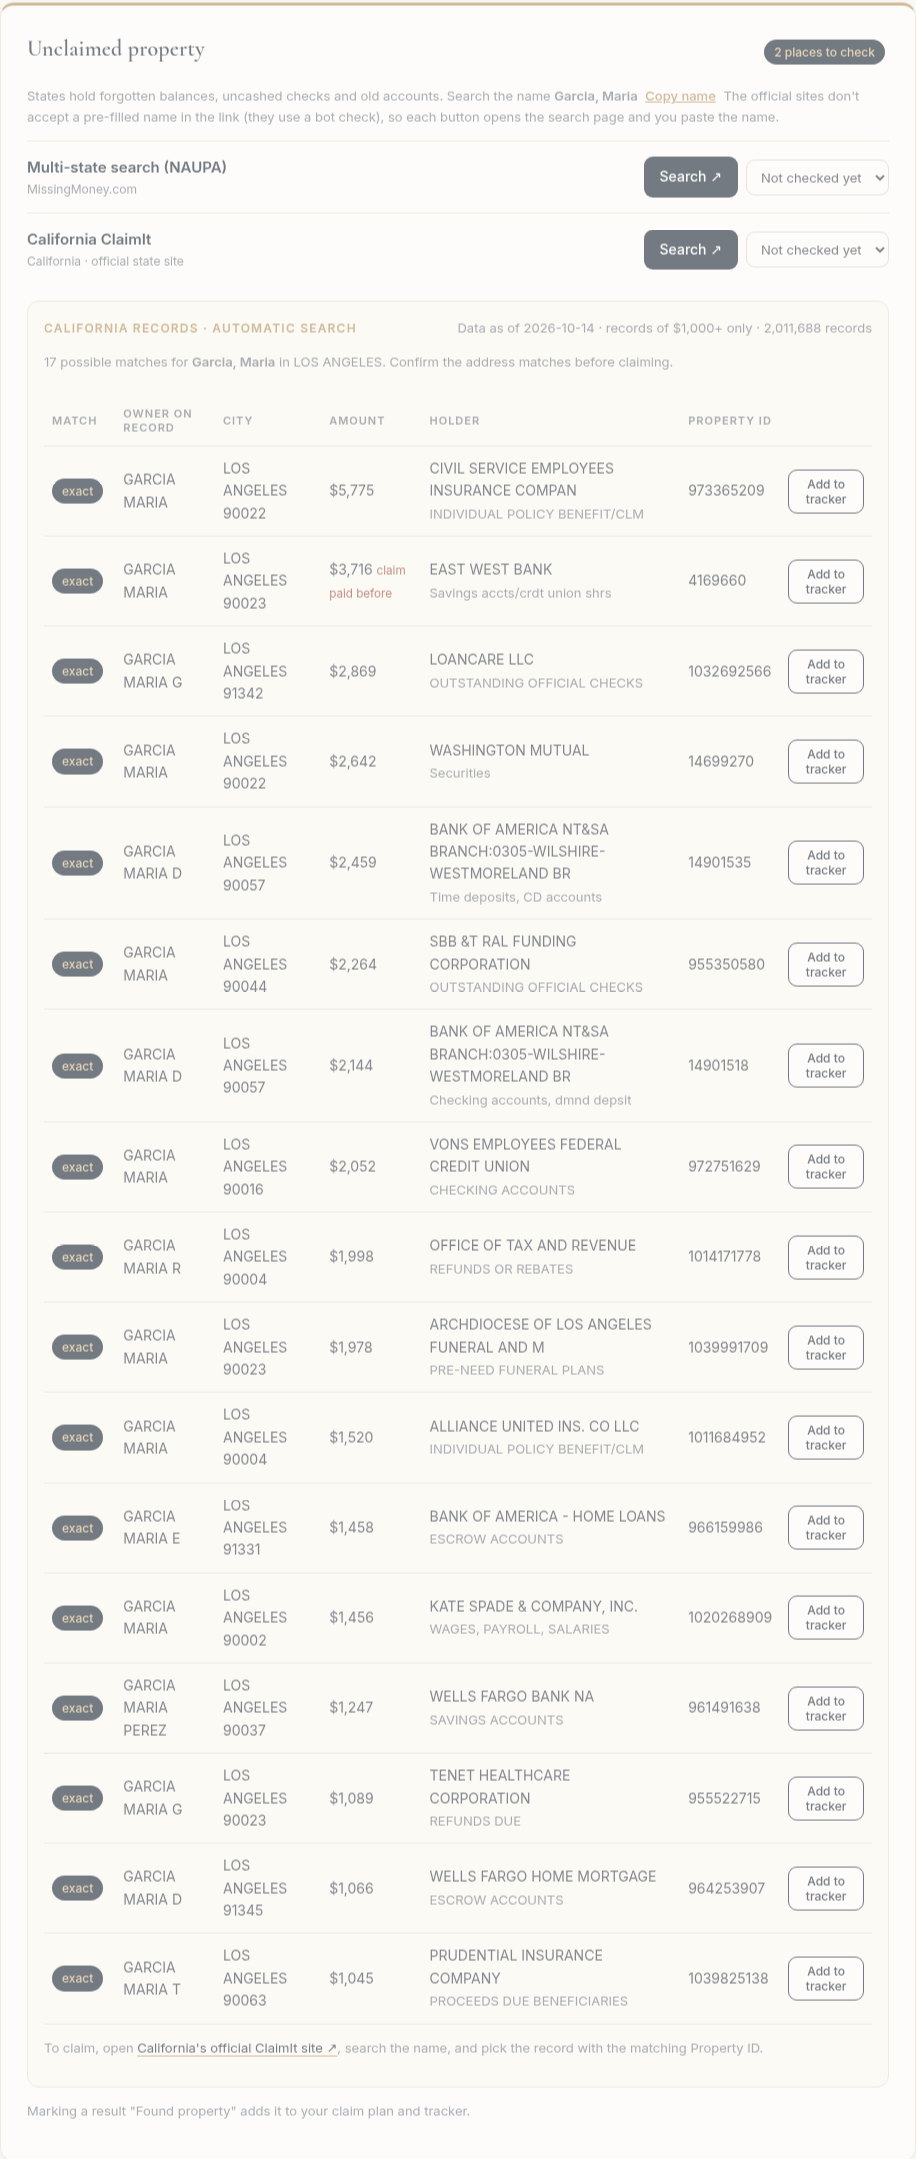
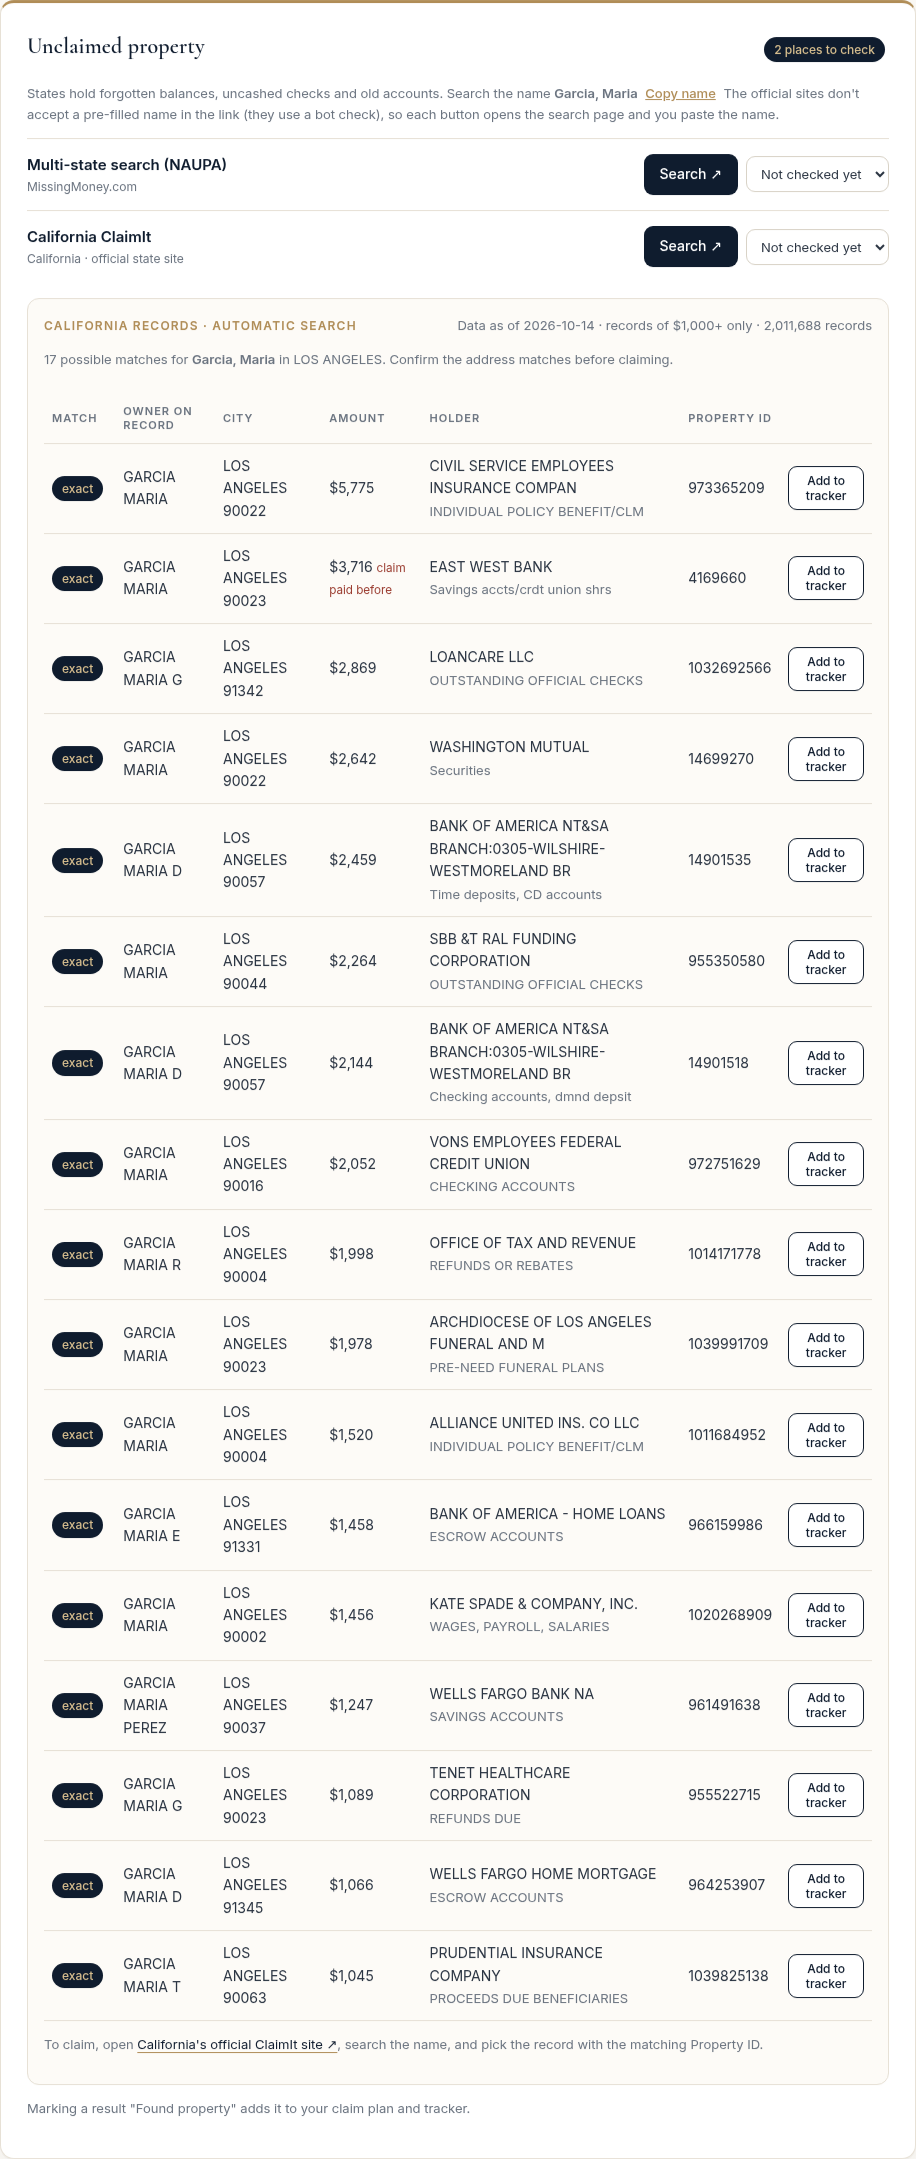
Add public About page linked from header

diff --git a/about.html b/about.html
@@ -1,0 +1,37 @@
+<!doctype html><html lang="en"><head><meta charset="utf-8"><meta name="viewport" content="width=device-width,initial-scale=1">
+<title>About Heirline</title><link rel="icon" href="data:,"><meta name="description" content="Heirline helps families find and claim a loved one's retirement accounts, HSAs and crypto. Prototype.">
+<link rel="preconnect" href="https://fonts.googleapis.com"><link href="https://fonts.googleapis.com/css2?family=Cormorant+Garamond:wght@500;600;700&family=Inter:wght@400;500;600&display=swap" rel="stylesheet">
+<link rel="stylesheet" href="styles.css"></head><body>
+<header class="top"><div class="wrap topbar">
+<a class="brand brand-link" href="index.html"><svg class="mark" viewBox="0 0 40 46" aria-hidden="true"><path d="M20 2 37 8v14c0 11-7.5 18.5-17 22C10.5 40.5 3 33 3 22V8z" fill="none" stroke="currentColor" stroke-width="2"/><text x="20" y="29" text-anchor="middle" font-family="Cormorant Garamond,serif" font-size="19" font-weight="700" fill="currentColor">H</text></svg>
+<div><div class="name">Heirline</div><div class="tagline">Estate account recovery</div></div></a>
+<div class="toplinks"><a href="index.html" class="navlink">App</a><a href="about.html" class="navlink on" aria-current="page">About</a><div class="proto"><span class="dot"></span>Prototype</div></div></div>
+<div class="wrap hero"><h1>When someone dies, their money shouldn't get lost too.</h1>
+<p>Heirline helps families find a loved one's accounts and work through each claim, calmly and in order.</p>
+<p><a class="btn" href="index.html" style="background:var(--gold);color:var(--ink);margin-top:10px">Try the prototype</a></p></div></header>
+<main class="wrap">
+<section class="card"><h4>The problem</h4><h2>Accounts are scattered, and the paperwork is different everywhere</h2>
+<p class="lead">After a death, families often don't know which retirement accounts, health savings accounts or crypto holdings exist, or where they are held. Each custodian has its own claim process, its own forms and its own document rules.</p>
+<ul><li><b>Scattered custodians.</b> A lifetime of jobs can leave 401(k)s, IRAs and HSAs spread across many firms.</li>
+<li><b>Paperwork at every step.</b> Claim forms, signature guarantees, estate papers and follow-ups, one institution at a time.</li>
+<li><b>Death certificates.</b> Most custodians want their own certified copy, and families often don't know how many to order.</li>
+<li><b>Crypto with no beneficiary option.</b> Some exchanges don't let owners name a beneficiary, so heirs must go through the estate.</li></ul></section>
+<section class="card"><div class="stat"><div class="big">$84.4T</div><p style="flex:1;min-width:220px;margin:0">Cerulli Associates projects $84.4 trillion in wealth will transfer through 2045, most of it to heirs. Much of that will move through accounts families have to find and claim.<br><small class="note">Source: <a href="https://www.cerulli.com/press-releases/cerulli-anticipates-84-trillion-in-wealth-transfers-through-2045" target="_blank" rel="noopener">Cerulli Associates</a></small></p></div></section>
+<h4 style="margin-top:30px">What Heirline does</h4>
+<div class="features">
+<div class="card"><div class="num">01</div><h3>Search</h3><p>Look up a loved one across a network of custodians to see which accounts exist and whether you're a named beneficiary. (Sample network in this prototype.)</p></div>
+<div class="card"><div class="num">02</div><h3>Document scan</h3><p>Read tax forms and statements, such as 1099-R, 5498 and 5498-SA, to spot accounts the family didn't know about.</p></div>
+<div class="card"><div class="num">03</div><h3>Unclaimed property</h3><p>Check state unclaimed-property records, including an automatic search of California's public records.</p></div>
+<div class="card"><div class="num">04</div><h3>Claim plan</h3><p>Step-by-step instructions and a document checklist for each custodian, with a ready-to-edit cover letter and a death-certificate count.</p></div>
+<div class="card"><div class="num">05</div><h3>Tracker</h3><p>Follow every claim from not started to paid, with notes and follow-up dates.</p></div></div>
+<section class="card dark"><h4>For financial institutions</h4><h2>Fewer stalled claims, better-prepared beneficiaries</h2>
+<p>We're exploring tools for custodians and plan providers: beneficiary checkups that help account owners keep designations current while they're alive, and complete, well-organized claim packets that make the process smoother for families and staff after a death.</p></section>
+<section class="card"><h4>How it protects your privacy</h4><h2>Honest about what this prototype does</h2>
+<ul><li>🔒 <b>Stays in your browser.</b> Searches, scanned documents, claim plans and the tracker are processed and saved only in your browser (local storage). Nothing is sent to a Heirline server; there isn't one.</li>
+<li><b>No real SSNs.</b> The app only compares the last four digits against fictional sample data, and clears the field after each search. Please don't enter real Social Security numbers.</li>
+<li><b>Sample custodian data.</b> The custodian network is made up. Real lookups would require partnerships with each institution.</li>
+<li><b>Public records only.</b> The California search uses the State Controller's publicly published unclaimed-property file.</li>
+<li><b>It's a prototype.</b> It hasn't had a security audit, and it isn't ready for real estate settlement. Clearing your browser data removes everything it saved.</li></ul></section>
+<section class="card soft"><h3>Get in touch</h3><p>Contact coming soon.</p></section>
+</main><footer class="wrap">Heirline is a prototype. It is not legal, tax or financial advice. Always confirm requirements with each institution or a qualified professional.</footer>
+</body></html>

diff --git a/styles.css b/styles.css
@@ -48,3 +48,8 @@ button.link{border:0;background:none;padding:0;margin:0 4px;color:var(--gold);te
 select[multiple]{padding:6px}@media(max-width:620px){.ucp-act{width:100%}.ucp-act select{flex:1}}
 .ca-box{margin-top:16px;padding:16px;border:1px solid var(--line);border-radius:12px;background:#fdfbf7}.ca-head{display:flex;justify-content:space-between;flex-wrap:wrap;gap:6px;align-items:baseline}
 .tbl{overflow-x:auto}.tbl table{min-width:640px}button.small{padding:6px 10px;font-size:12px;margin:0}button:disabled{opacity:.55;cursor:default}
+.toplinks{display:flex;align-items:center;gap:16px}.navlink{color:#e9e4da;text-decoration:none;font-size:14px;font-weight:500;border-bottom:1px solid transparent;transition:all .2s}.navlink:hover,.navlink.on{color:var(--gold2);border-color:var(--gold2)}
+.brand-link{text-decoration:none}.lead{font-size:17px;color:var(--text)}.stat{display:flex;gap:18px;align-items:center;flex-wrap:wrap}.stat .big{font-family:"Cormorant Garamond",serif;font-size:56px;color:var(--gold);line-height:1;font-weight:600}
+.features{display:grid;grid-template-columns:repeat(auto-fit,minmax(240px,1fr));gap:16px;margin:0 0 18px}.features .card{margin:0}.features h3{font-size:20px}.features .num{font:600 12px Inter;color:var(--gold);letter-spacing:1.2px}
+.card.dark{background:linear-gradient(160deg,var(--ink),var(--ink2));color:#d7dbe2;border:0}.card.dark h2{color:#fff}.card.dark a{color:var(--gold2)}
+@media(max-width:620px){.toplinks{gap:10px}.stat .big{font-size:44px}}

diff --git a/index.html b/index.html
@@ -5,7 +5,7 @@
 <header class="top"><div class="wrap topbar">
 <div class="brand"><svg class="mark" viewBox="0 0 40 46" aria-hidden="true"><path d="M20 2 37 8v14c0 11-7.5 18.5-17 22C10.5 40.5 3 33 3 22V8z" fill="none" stroke="currentColor" stroke-width="2"/><text x="20" y="29" text-anchor="middle" font-family="Cormorant Garamond,serif" font-size="19" font-weight="700" fill="currentColor">H</text></svg>
 <div><div class="name">Heirline</div><div class="tagline">Estate account recovery</div></div></div>
-<div class="proto"><span class="dot"></span>Prototype · sample data only</div></div>
+<div class="toplinks"><a href="about.html" class="navlink">About</a><div class="proto"><span class="dot"></span>Prototype · sample data only</div></div></div>
 <div class="wrap hero"><h1>Find and claim what your loved one left behind.</h1>
 <p>A calm, guided path through retirement, HSA and crypto accounts, one custodian at a time.</p>
 <p class="trust"><svg viewBox="0 0 24 24" width="15" height="15"><path d="M7 10V7a5 5 0 0 1 10 0v3M5 10h14v11H5z" fill="none" stroke="currentColor" stroke-width="1.8"/></svg> Private by design: everything stays in this browser. No real SSNs, please.</p></div>
